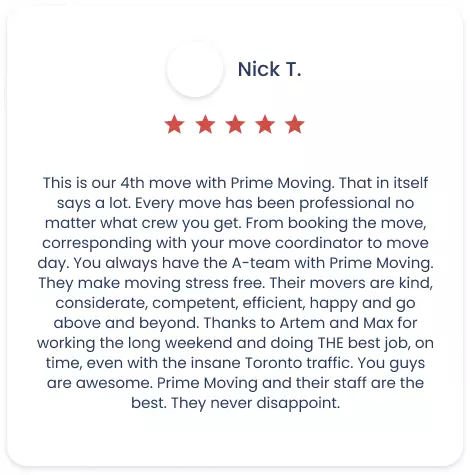
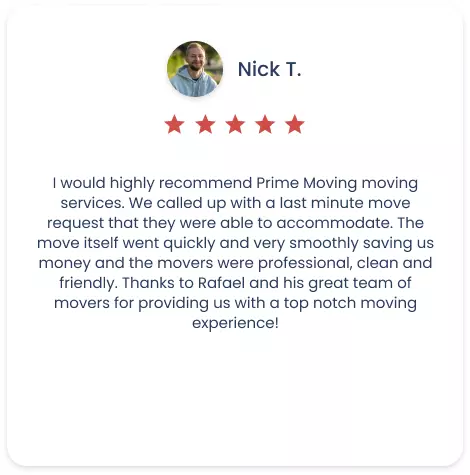
add review

Changed region(s): [[0.0596, 0.3537, 0.9234, 0.8842], [0.3574, 0.0884, 0.4766, 0.2063]]

diff --git a/src/index.html b/src/index.html
@@ -431,10 +431,10 @@
                   <img
                     class="experience-gallery-img"
                     srcset="
-                      ./img/exp-gallery/gallery-mob-1@1x.webp 1x,
-                      ./img/exp-gallery/gallery-mob-1@2x.webp 2x
+                      ./img/exp-gallery/gallery-mob-11@1x.webp 1x,
+                      ./img/exp-gallery/gallery-mob-11@2x.webp 2x
                     "
-                    src="./img/exp-gallery/. gallery-mob-1@1x.webp"
+                    src="./img/exp-gallery/. gallery-mob-11@1x.webp"
                     alt="our experience 1"
                   />
                 </a>
@@ -571,10 +571,10 @@
                   <img
                     class="experience-gallery-img"
                     srcset="
-                      ./img/exp-gallery/gallery-mob-11@1x.webp 1x,
-                      ./img/exp-gallery/gallery-mob-11@2x.webp 2x
+                      ./img/exp-gallery/gallery-mob-1@1x.webp 1x,
+                      ./img/exp-gallery/gallery-mob-1@2x.webp 2x
                     "
-                    src="./img/exp-gallery/gallery-mob-11@1x.webp"
+                    src="./img/exp-gallery/gallery-mob-1@1x.webp"
                     alt="our experience 11"
                   />
                 </a>

diff --git a/src/pages/why-us.html b/src/pages/why-us.html
@@ -229,6 +229,17 @@
                       alt="review 5"
                     />
                   </li>
+                  <li class="experience-gallery-item goal">
+                    <img
+                      class="experience-gallery-img"
+                      srcset="
+                        ../img/reviews/review-6@1x.webp 1x,
+                        ../img/reviews/review-6@2x.webp 2x
+                      "
+                      src="../img/reviews/review-6@1x.webp"
+                      alt="review 6"
+                    />
+                  </li>
                 </ul>
               </div>
             </div>

diff --git a/src/js/select.js b/src/js/select.js
@@ -55,6 +55,18 @@ export const selectLists = [
         value: "Gym",
         text: "Gym",
       },
+      {
+        value: "Packing",
+        text: "Packing",
+      },
+      {
+        value: "Unpacking",
+        text: "Unpacking",
+      },
+      {
+        value: "Storage",
+        text: "Storage",
+      },
     ],
   },
   {
